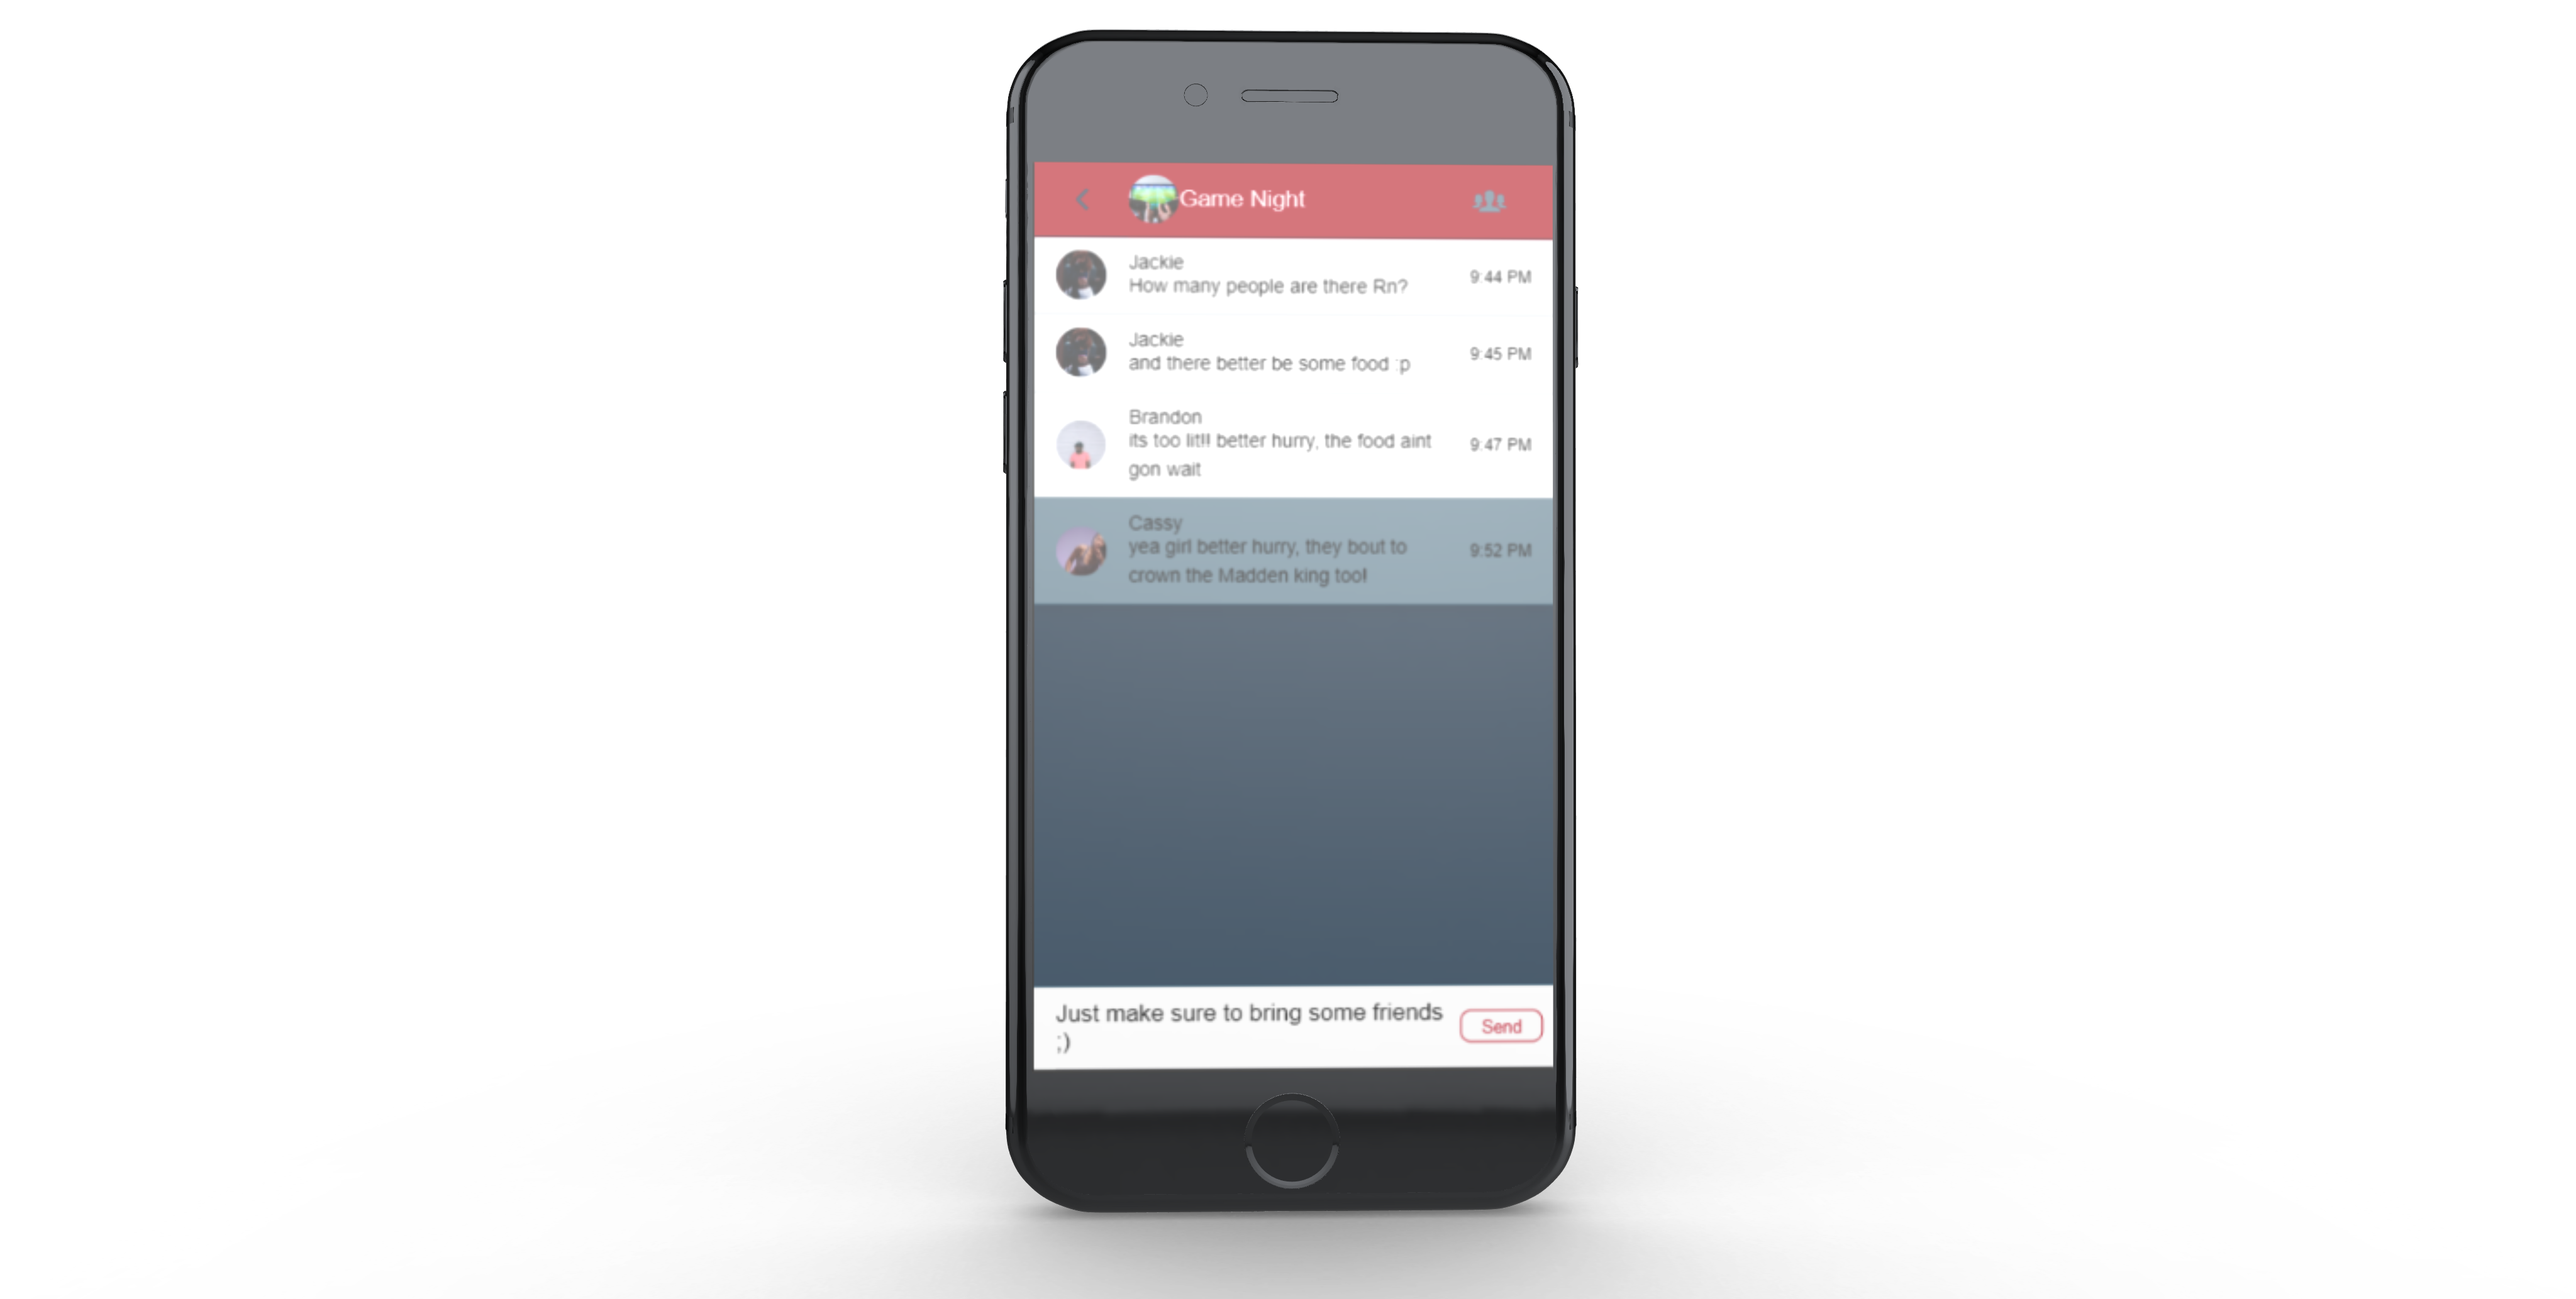
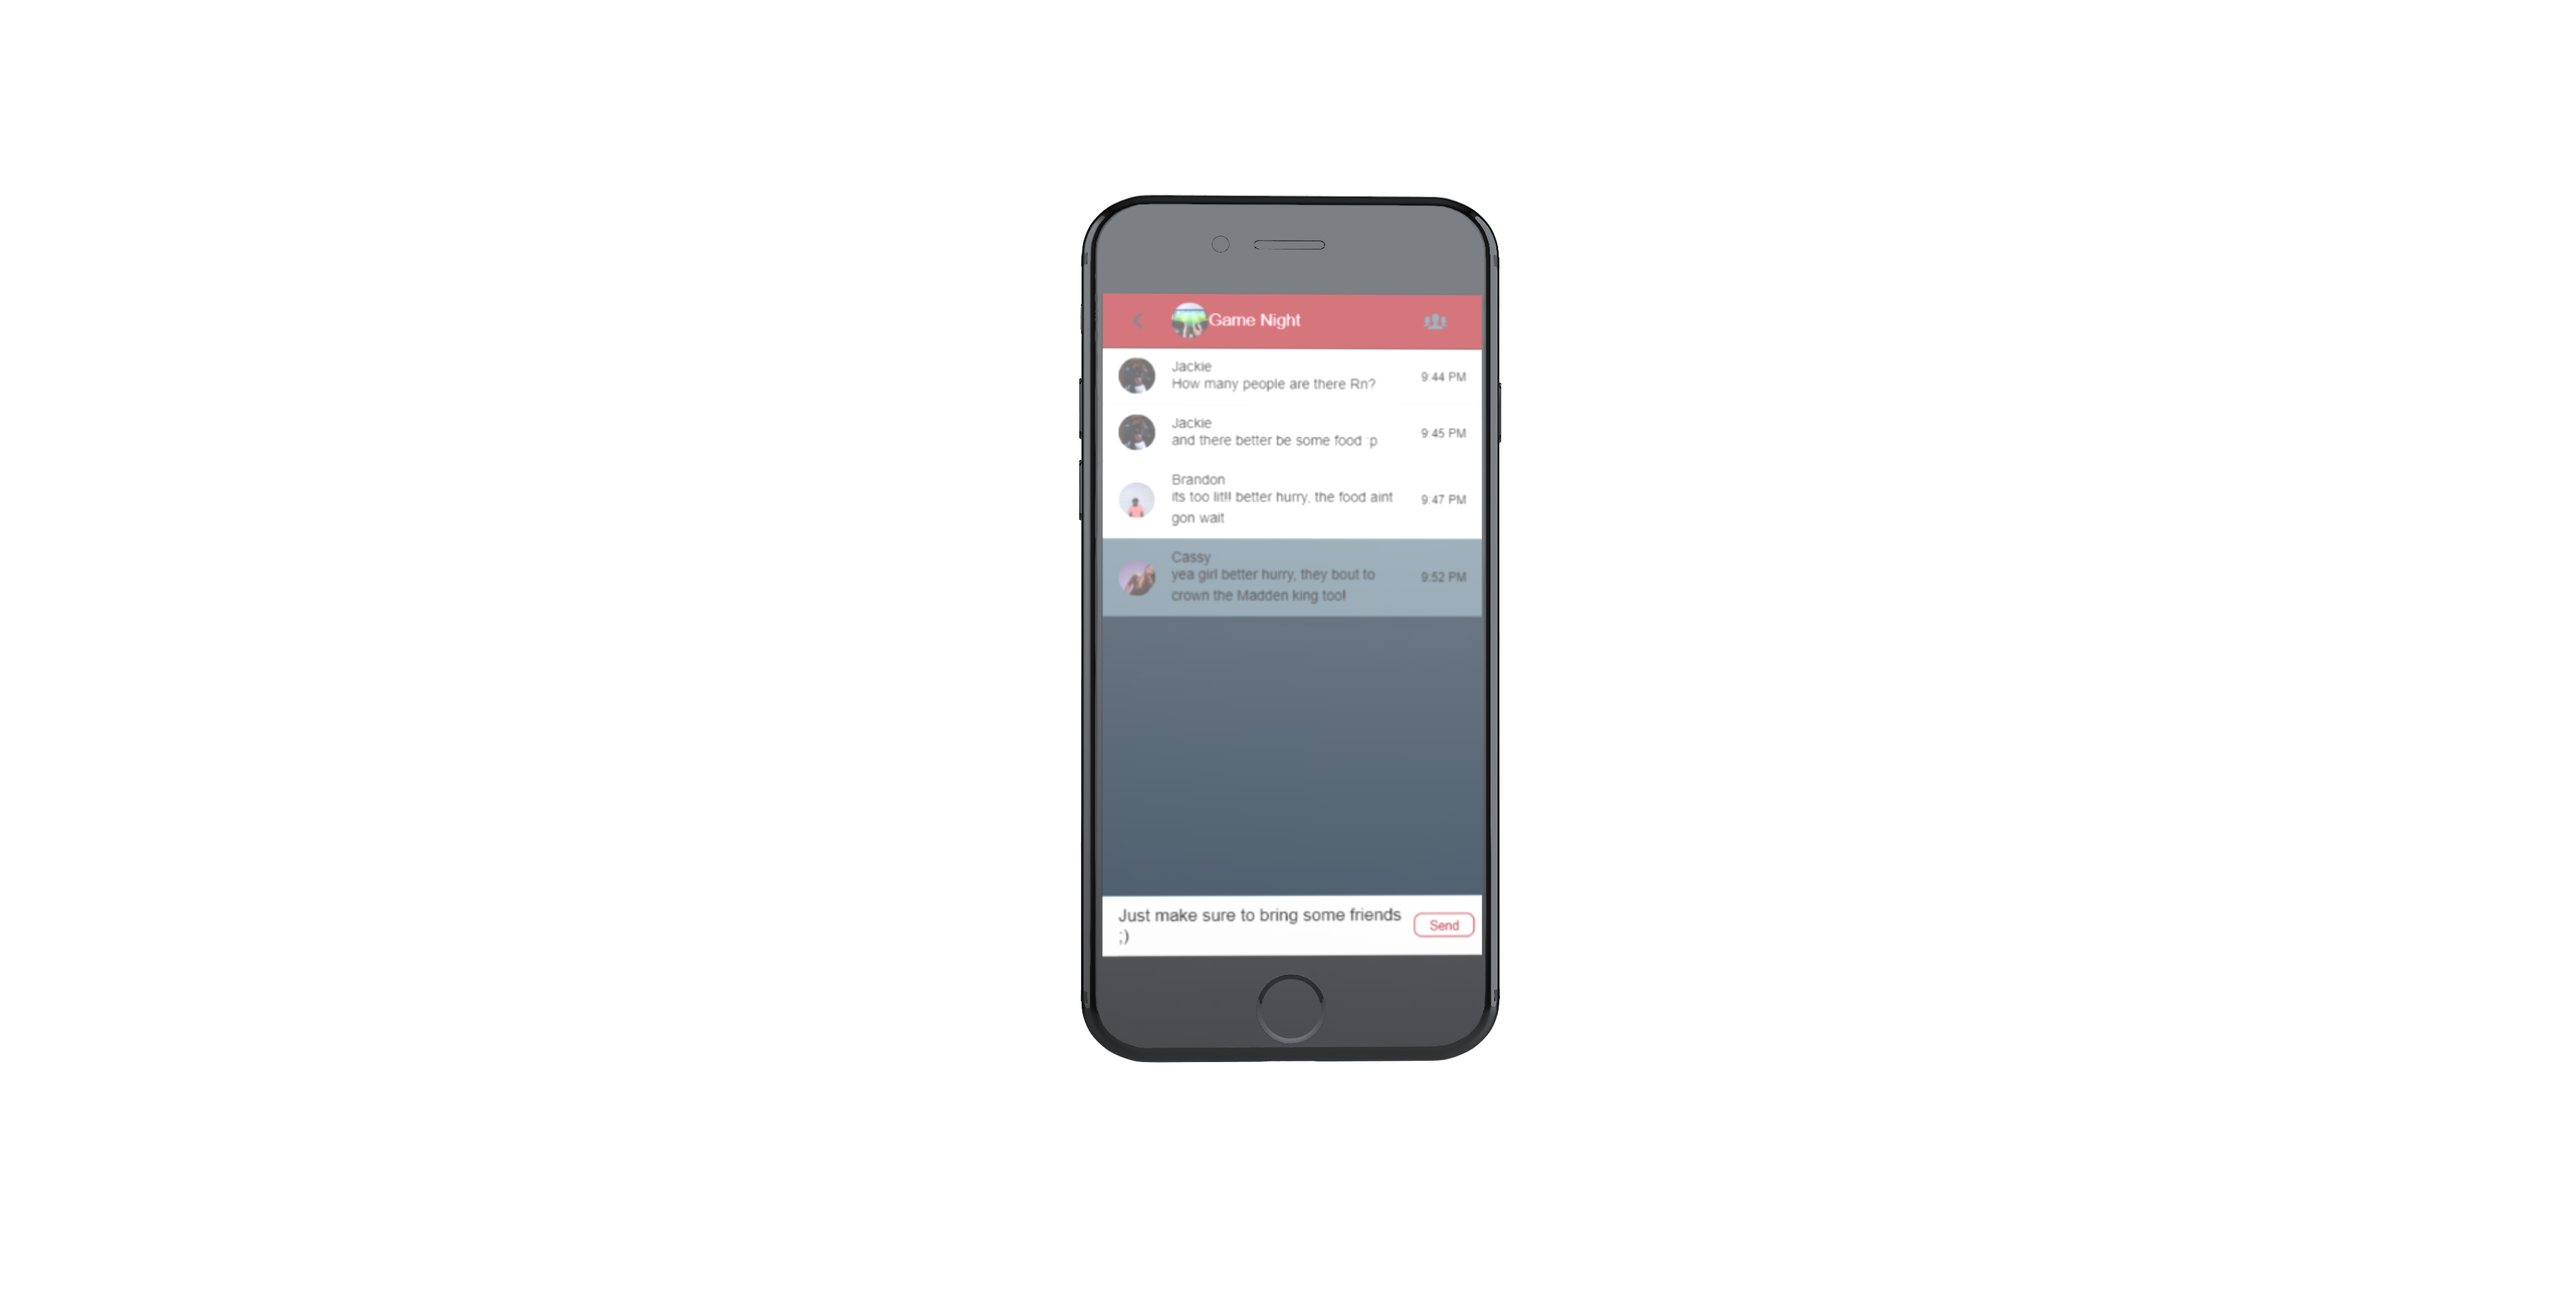
making progress

Changed region(s): [[0.3438, 0.0, 0.6562, 1.0]]

diff --git a/src/app/public/home/components/demo/demo.component.scss b/src/app/public/home/components/demo/demo.component.scss
@@ -11,6 +11,16 @@ ion-grid {
     background-position: center; 
 }
 
+
+
+.chat {
+    background-image: url(../../../../../assets/imgs/chat_phone.png);
+    background-repeat: no-repeat;
+    background-size: cover;
+    position: relative;
+    background-position: center;  
+}
+
 .main-row {
     height: 100%;
 }

diff --git a/src/app/public/home/components/how/how.component.scss b/src/app/public/home/components/how/how.component.scss
@@ -4,7 +4,7 @@ ion-card {
 }
 
 ion-col {
-    border: 1px solid red;
+ 
 }
 .dollar {
     font-size: 60px
